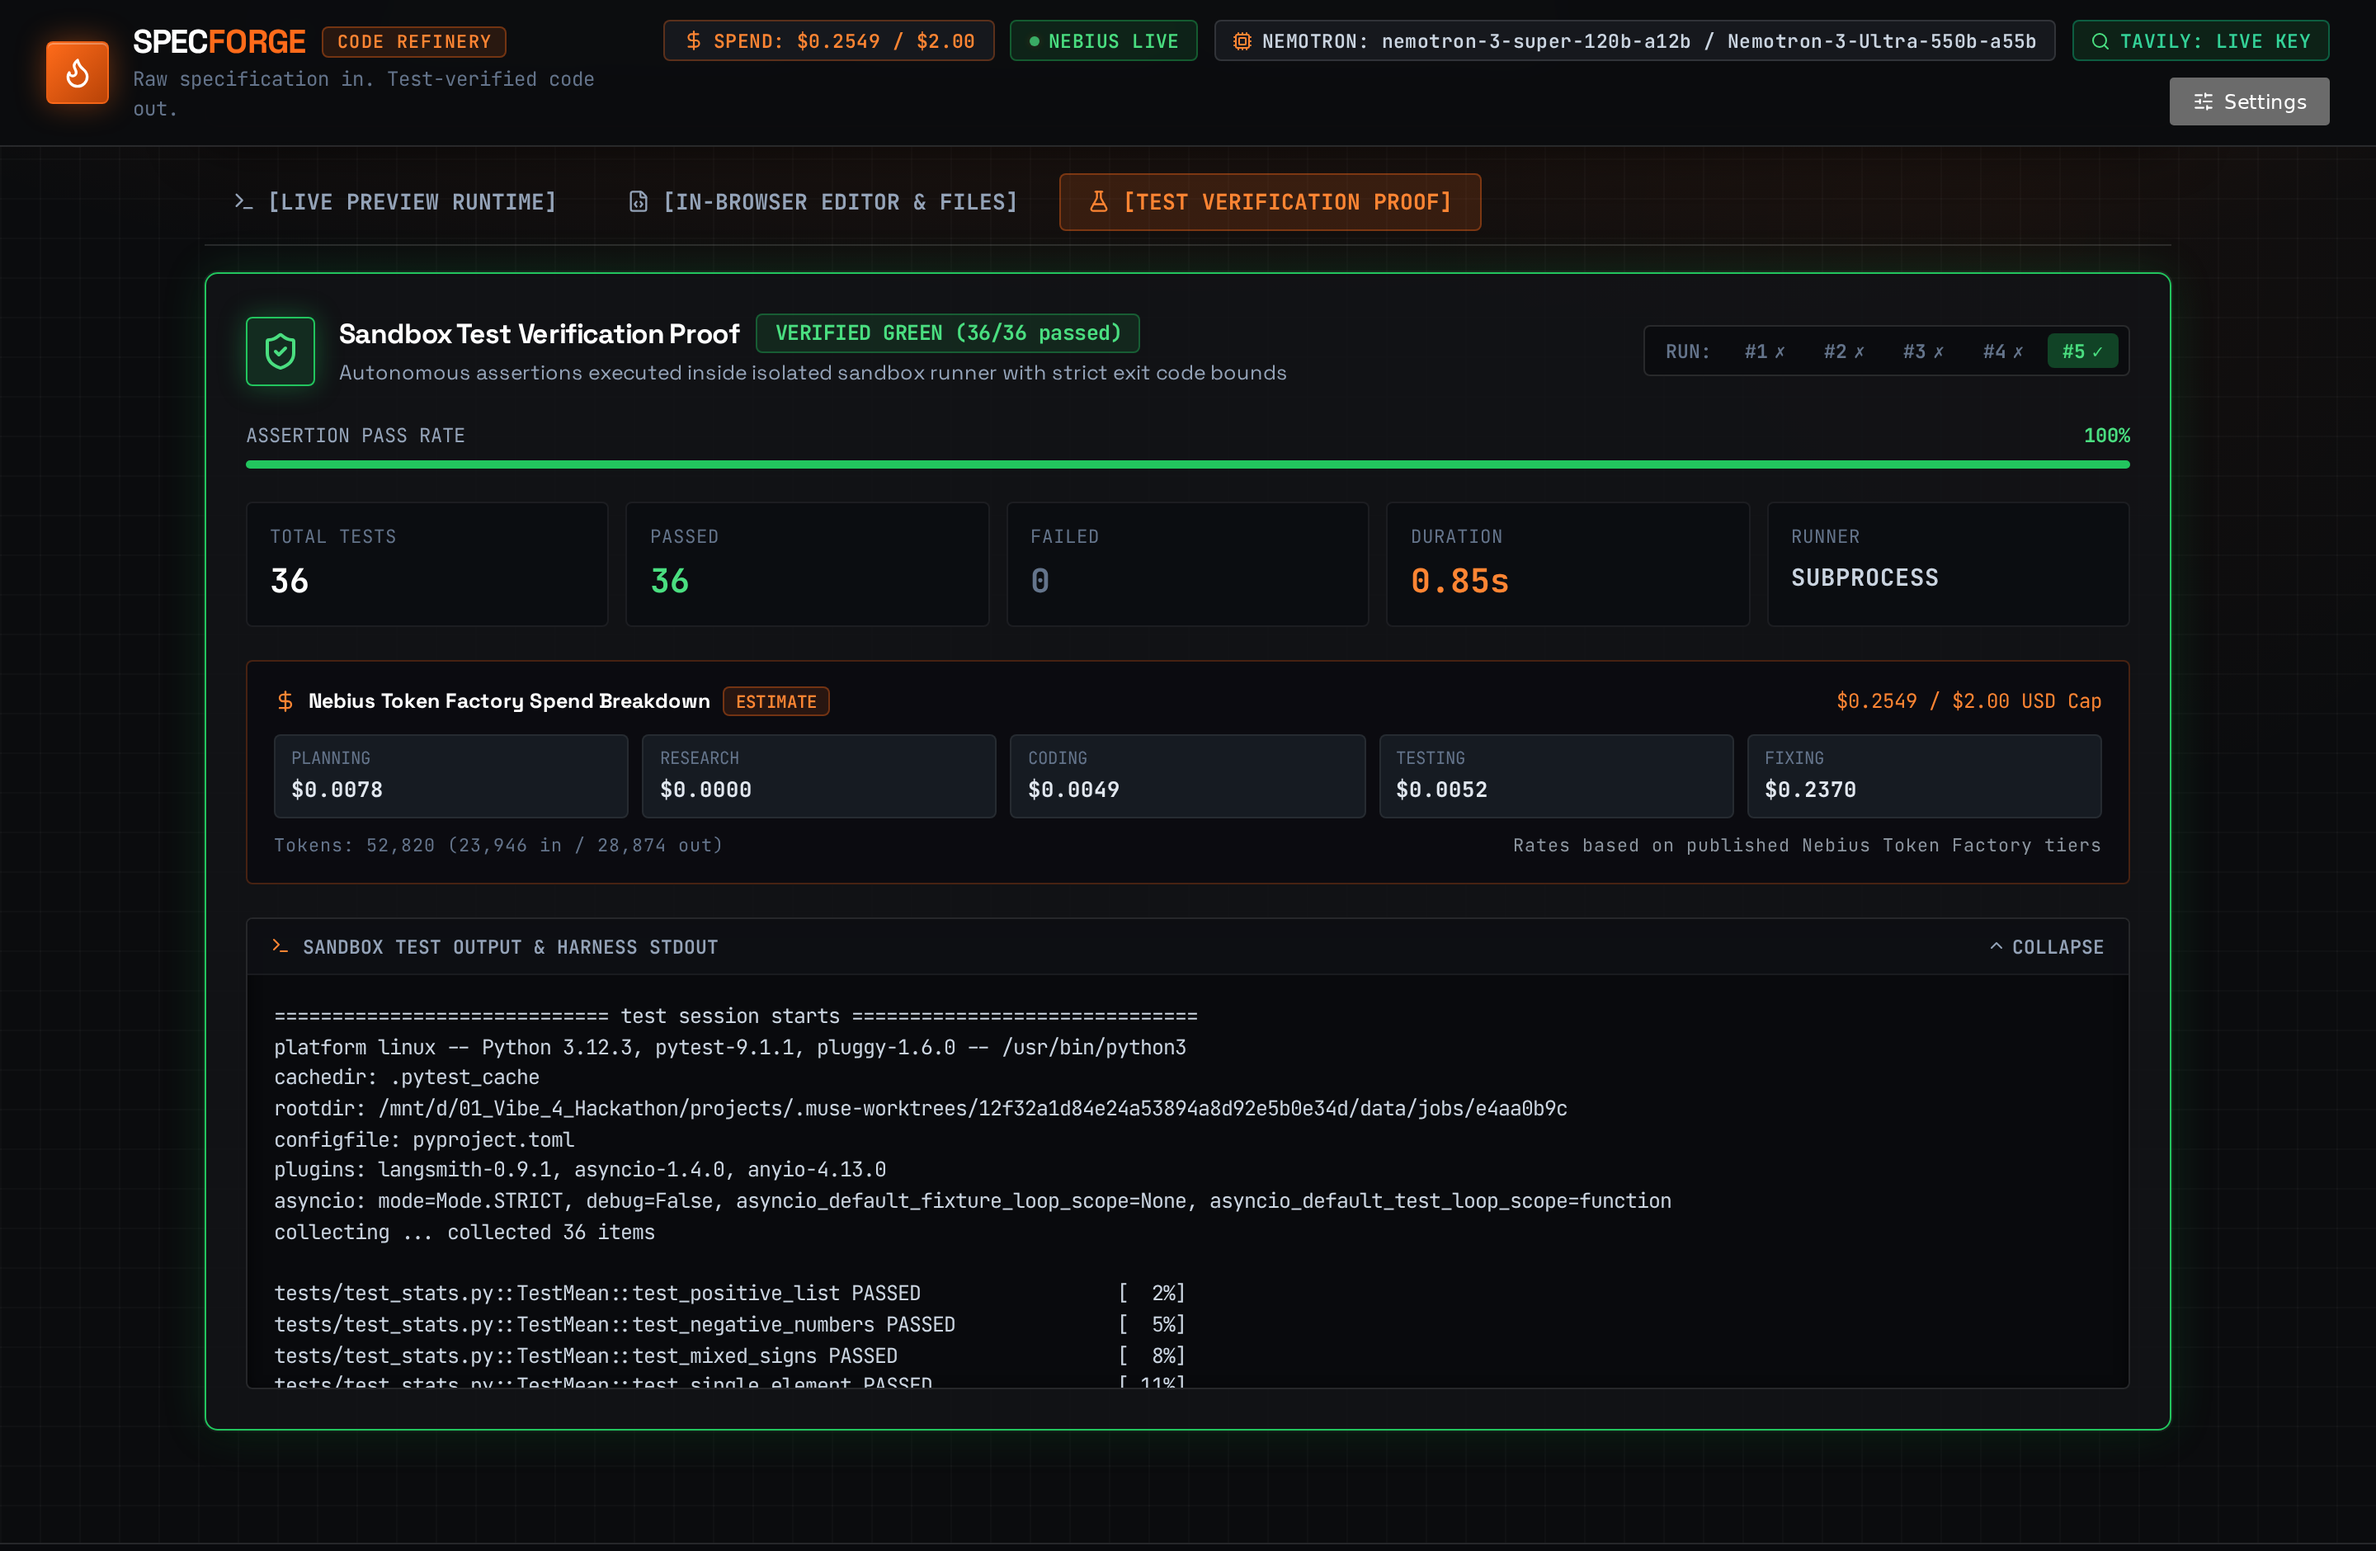
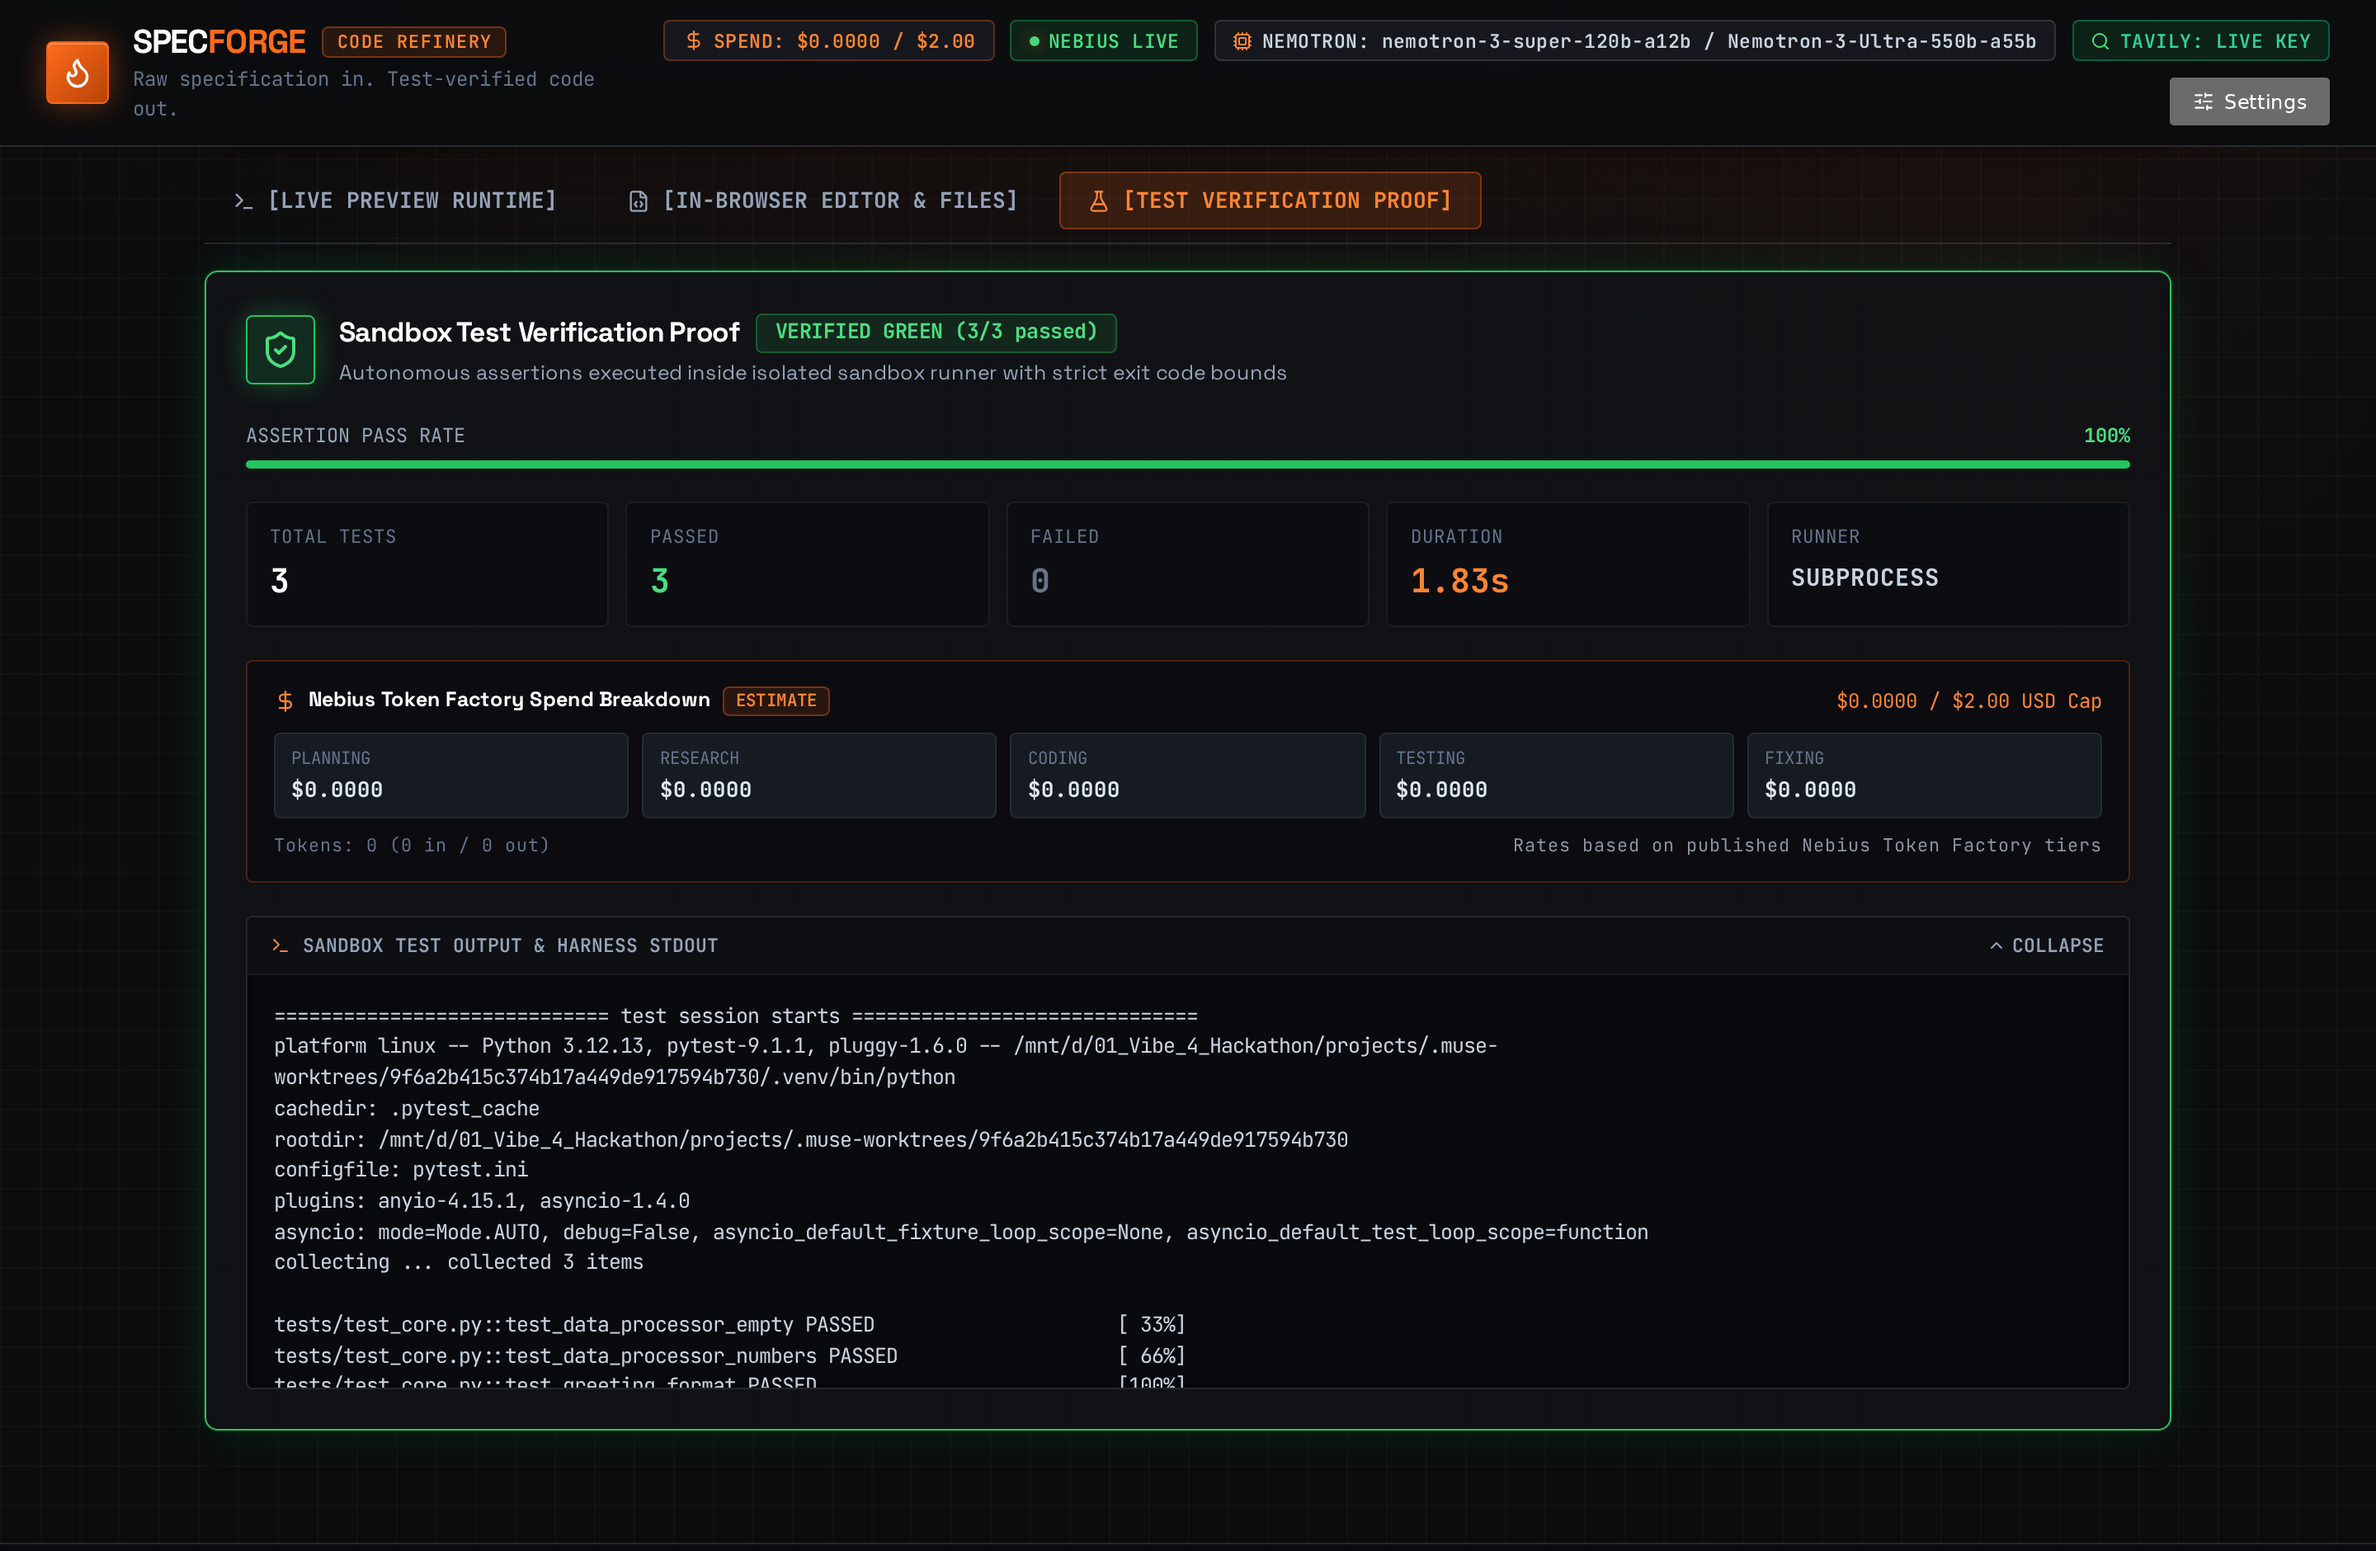
docs(qa): recapture high-resolution visual QA screens with live Nebius job telemetry and interactive CLI preview

diff --git a/scratch/capture_qa_screenshots.py b/scratch/capture_qa_screenshots.py
@@ -7,8 +7,8 @@ BASE_URL = "http://localhost:8001"
 OUTPUT_DIR = Path(__file__).resolve().parent.parent / "design_qa"
 OUTPUT_DIR.mkdir(parents=True, exist_ok=True)
 
-VERIFIED_JOB_ID = "e4aa0b9c"
-REFINE_JOB_ID = "test_refine_c91c5b"
+VERIFIED_JOB_ID = "4e3a6824"
+REFINE_JOB_ID = "test_refine_8f3c47"
 
 async def run():
     async with async_playwright() as p:
@@ -44,10 +44,10 @@ async def run():
         await page.goto(f"{BASE_URL}/?job={VERIFIED_JOB_ID}", wait_until="domcontentloaded")
         await page.wait_for_timeout(1500)
         await page.evaluate("""() => {
-            const el = document.querySelector('[data-timeline-container]') || Array.from(document.querySelectorAll('div')).find(d => d.textContent && d.textContent.includes('Agentic Pipeline Telemetry'));
+            const el = Array.from(document.querySelectorAll('h3')).find(d => d.textContent && d.textContent.includes('Agentic Pipeline Telemetry'));
             if (el) {
                 el.scrollIntoView({ behavior: 'instant', block: 'start' });
-                window.scrollBy(0, -85);
+                window.scrollBy(0, -90);
             }
         }""")
         await page.wait_for_timeout(600)
@@ -55,21 +55,23 @@ async def run():
         await page.screenshot(path=str(OUTPUT_DIR / "02_pipeline_timeline_research.png"))
 
         # 4. PreviewPanel / Live Preview Runtime Screen
-        print("4. Capturing 03_preview_panel.png...")
-        preview_tab = page.locator('button:has-text("LIVE PREVIEW")')
-        if await preview_tab.count() > 0:
-            await preview_tab.first.click()
-            await page.wait_for_timeout(800)
-            await page.evaluate("""() => {
-                for (const b of document.querySelectorAll('button')) {
-                    if (b.textContent && b.textContent.includes('LIVE PREVIEW')) {
-                        b.scrollIntoView({ behavior: 'instant', block: 'start' });
-                        window.scrollBy(0, -85);
-                        break;
-                    }
+        print("4. Capturing 03_preview_panel.png with real executed CLI...")
+        await page.goto(f"{BASE_URL}/?job=test_prev_cli_e358fb", wait_until="domcontentloaded")
+        await page.wait_for_timeout(1000)
+        run_btn = page.locator('button:has-text("Run Invocation")')
+        if await run_btn.count() > 0:
+            await run_btn.first.click()
+            await page.wait_for_timeout(1200)
+        await page.evaluate("""() => {
+            for (const b of document.querySelectorAll('button')) {
+                if (b.textContent && b.textContent.includes('LIVE PREVIEW')) {
+                    b.scrollIntoView({ behavior: 'instant', block: 'start' });
+                    window.scrollBy(0, -90);
+                    break;
                 }
-            }""")
-            await page.wait_for_timeout(600)
+            }
+        }""")
+        await page.wait_for_timeout(600)
         print("Capturing 03_preview_panel.png...")
         await page.screenshot(path=str(OUTPUT_DIR / "03_preview_panel.png"))
 
@@ -116,10 +118,10 @@ async def run():
             await forge_btn.first.click()
             await page.wait_for_timeout(2500)
             await page.evaluate("""() => {
-                const el = Array.from(document.querySelectorAll('div')).find(d => d.textContent && d.textContent.includes('Agentic Pipeline Telemetry'));
+                const el = Array.from(document.querySelectorAll('h3')).find(d => d.textContent && d.textContent.includes('Agentic Pipeline Telemetry'));
                 if (el) {
                     el.scrollIntoView({ behavior: 'instant', block: 'start' });
-                    window.scrollBy(0, -85);
+                    window.scrollBy(0, -90);
                 }
             }""")
             await page.wait_for_timeout(500)
